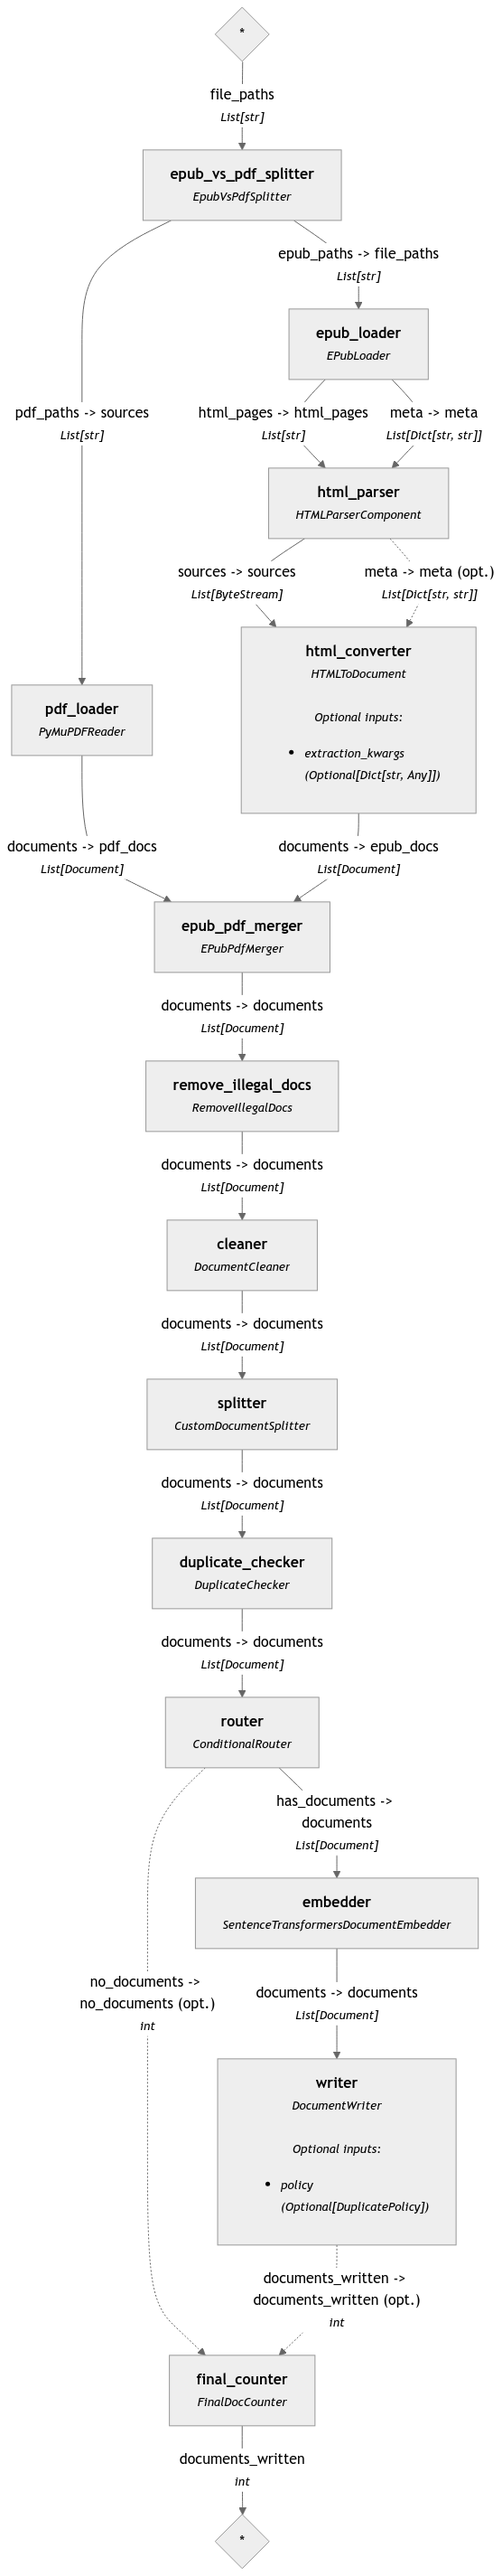
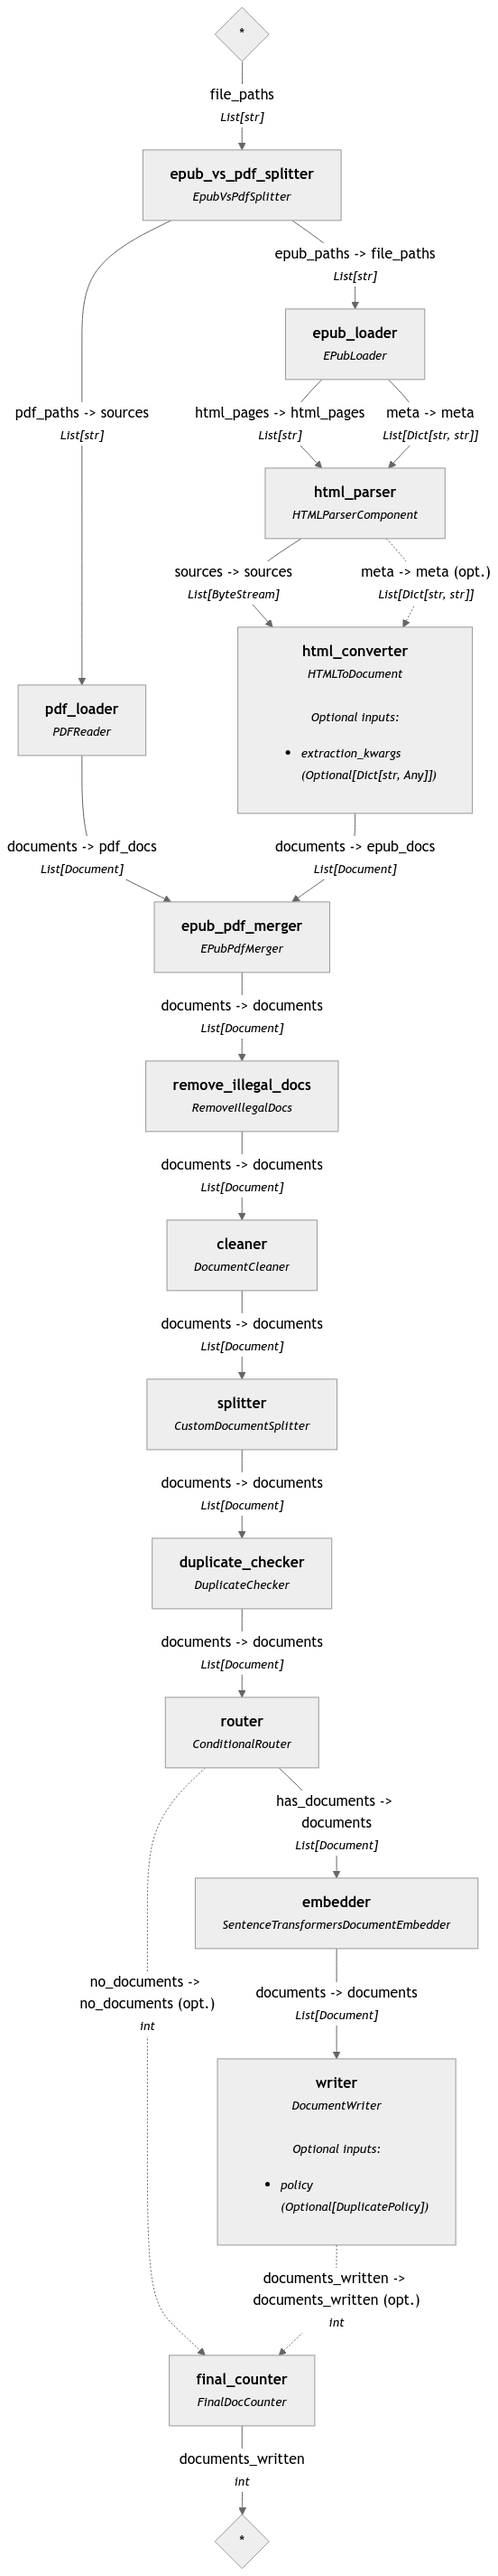
Fixed to pass PDF loading strategy as parameter

diff --git a/document_processor.py b/document_processor.py
@@ -23,6 +23,7 @@ from haystack.utils.auth import Secret
 # Other imports
 from typing import List, Optional, Dict, Any
 from pathlib import Path
+from enum import Enum
 from generator_model import get_secret
 from doc_content_checker import skip_content
 from custom_haystack_components import (CustomDocumentSplitter, RemoveIllegalDocs, FinalDocCounter, DuplicateChecker,
@@ -30,8 +31,8 @@ from custom_haystack_components import (CustomDocumentSplitter, RemoveIllegalDoc
                                         EPubPdfMerger, PDFToMarkdown, PDFReader, PyMuPDFReader)
 
 
-# Create an enum for PDF reading stragegy: PyPDFToDocument, PDFReader, PDFToMarkdown, PyMuPDFReader
-class PDFReadingStrategy:
+# Create an enum for PDF reading strategy: PyPDFToDocument, PDFReader, PDFToMarkdown, PyMuPDFReader
+class PDFReadingStrategy(Enum):
     PyPDFToDocument = 1
     PDFReader = 2
     PDFToMarkdown = 3
@@ -54,7 +55,8 @@ class DocumentProcessor:
                  embedder_model_name: Optional[str] = None,
                  include_outputs_from: Optional[set[str]] = None,
                  verbose: bool = False,
-                 write_to_file: bool = False
+                 write_to_file: bool = False,
+                 pdf_reading_strategy: PDFReadingStrategy = PDFReadingStrategy.PDFReader
                  ) -> None:
 
         # Instance variables
@@ -68,6 +70,7 @@ class DocumentProcessor:
         self._verbose: bool = verbose
         self._write_to_file: bool = write_to_file
         self._include_outputs_from: Optional[set[str]] = include_outputs_from
+        self._pdf_reading_strategy: PDFReadingStrategy = pdf_reading_strategy
 
         # File paths
         self._file_or_folder_path: str = file_or_folder_path  # New instance variable
@@ -169,7 +172,8 @@ class DocumentProcessor:
             else:
                 raise ValueError("The provided file must be an .epub or .pdf")
 
-    def _doc_converter_pipeline(self, pdf_reading_strategy: PDFReadingStrategy = PyMuPDFReader) -> None:
+    def _doc_converter_pipeline(self,
+                                pdf_reading_strategy: PDFReadingStrategy = PDFReadingStrategy.PyMuPDFReader) -> None:
         self._setup_embedder()
         # Create the custom splitter
         custom_splitter: CustomDocumentSplitter = CustomDocumentSplitter(self._sentence_embedder,
@@ -197,14 +201,14 @@ class DocumentProcessor:
         # Create the document conversion pipeline
         doc_convert_pipe: Pipeline = Pipeline()
         doc_convert_pipe.add_component("epub_vs_pdf_splitter", EpubVsPdfSplitter())
-        if pdf_reading_strategy == PyPDFToDocument:
+        if pdf_reading_strategy == PDFReadingStrategy.PyPDFToDocument:
             doc_convert_pipe.add_component("pdf_loader", PyPDFToDocument())
-        elif pdf_reading_strategy == PDFReader:
+        elif pdf_reading_strategy == PDFReadingStrategy.PDFReader:
             doc_convert_pipe.add_component("pdf_loader", PDFReader())
-        elif pdf_reading_strategy == PDFToMarkdown:
+        elif pdf_reading_strategy == PDFReadingStrategy.PDFToMarkdown:
             doc_convert_pipe.add_component("pdf_loader", PDFToMarkdown())
             doc_convert_pipe.add_component("markdown_converter", MarkdownToDocument())
-        elif pdf_reading_strategy == PyMuPDFReader:
+        elif pdf_reading_strategy == PDFReadingStrategy.PyMuPDFReader:
             doc_convert_pipe.add_component("pdf_loader", PyMuPDFReader())
 
         doc_convert_pipe.add_component("epub_loader", EPubLoader(verbose=self._verbose))
@@ -236,18 +240,15 @@ class DocumentProcessor:
         doc_convert_pipe.connect("html_parser.meta", "html_converter.meta")
         doc_convert_pipe.connect("html_converter.documents", "epub_pdf_merger.epub_docs")
         # PDF pipeline
-        if pdf_reading_strategy == PyPDFToDocument:
+        if pdf_reading_strategy == PDFReadingStrategy.PyPDFToDocument:
             doc_convert_pipe.connect("pdf_loader.documents", "epub_pdf_merger.pdf_docs")
-        elif pdf_reading_strategy == PDFReader:
+        elif pdf_reading_strategy == PDFReadingStrategy.PDFReader:
             doc_convert_pipe.connect("pdf_loader.documents", "epub_pdf_merger.pdf_docs")
-        elif pdf_reading_strategy == PDFToMarkdown:
+        elif pdf_reading_strategy == PDFReadingStrategy.PDFToMarkdown:
             doc_convert_pipe.connect("pdf_loader.sources", "markdown_converter.sources")
             doc_convert_pipe.connect("markdown_converter.documents", "epub_pdf_merger.pdf_docs")
-        elif pdf_reading_strategy == PyMuPDFReader:
+        elif pdf_reading_strategy == PDFReadingStrategy.PyMuPDFReader:
             doc_convert_pipe.connect("pdf_loader.documents", "epub_pdf_merger.pdf_docs")
-
-        # doc_convert_pipe.connect("pdf_loader.sources", "markdown_converter.sources")
-        # doc_convert_pipe.connect("pdf_loader.documents", "epub_pdf_merger.pdf_docs")
 
         # Remaining pipeline to final counter
         doc_convert_pipe.connect("epub_pdf_merger.documents", "remove_illegal_docs")
@@ -290,7 +291,7 @@ class DocumentProcessor:
 
         # Iterate over the document and metadata pairs as they are loaded
         total_written: int = 0
-        self._doc_converter_pipeline()
+        self._doc_converter_pipeline(pdf_reading_strategy=self._pdf_reading_strategy)
 
         for file_path in self._create_file_list():
             file_path_list: List[str] = [file_path]
@@ -326,7 +327,8 @@ def main() -> None:
         min_paragraph_size=300,
         include_outputs_from=include_outputs_from,
         verbose=True,
-        write_to_file=True
+        pdf_reading_strategy=PDFReadingStrategy.PDFReader,
+        write_to_file=True,
     )
 
     # Draw images of the pipelines
